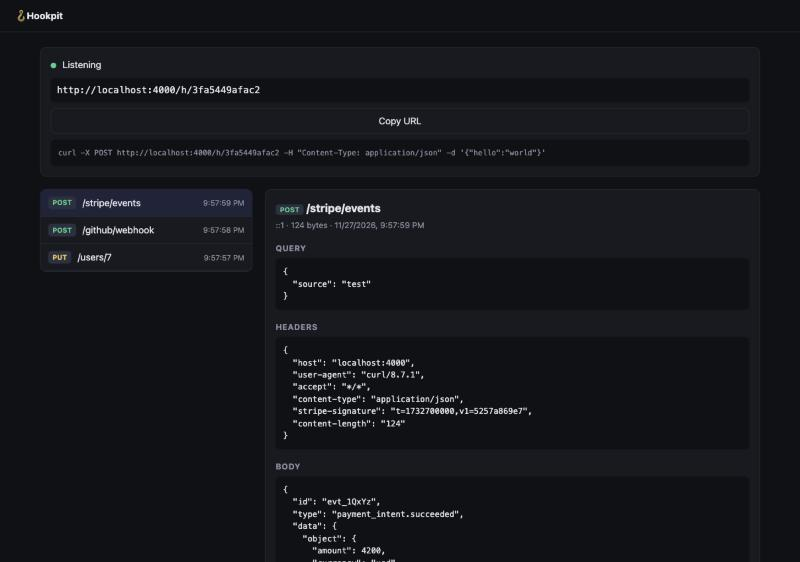
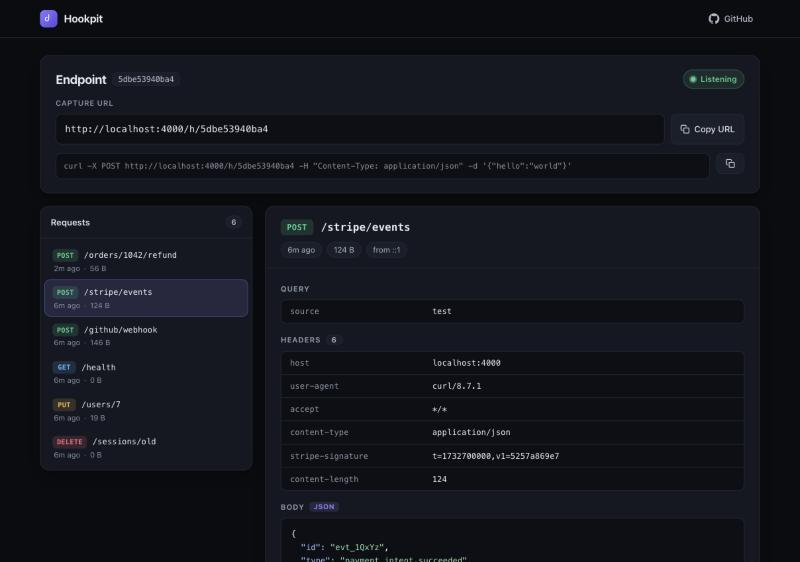
docs: refresh the README screenshots for the new design and add mocks

diff --git a/README.md b/README.md
@@ -11,13 +11,21 @@ Your payloads stay on your own server instead of a third-party site.
 
 ## Demo
 
+![Hookpit home page: "Catch, inspect, replay and mock webhooks"](docs/home.jpg)
+
 **1. Catch.** Point any service at your capture URL. Every request shows up live with its exact method, path, query, headers and raw body.
 
-![Hookpit dashboard showing three captured requests and the details of a Stripe-style webhook](docs/dashboard.jpg)
+![Hookpit endpoint page with a list of captured requests and the headers and JSON body of a Stripe-style webhook](docs/dashboard.jpg)
 
 **2. Replay.** Fixed your handler? Resend the same request to your app, optionally editing the method or body first, and see exactly how it responded.
 
 ![Hookpit replay panel showing a 202 Accepted response from the target](docs/replay.jpg)
+
+**3. Mock.** Make the capture URL answer like a real API: set the status, headers, a body with placeholders such as `{{now}}`, and a delay.
+
+![Hookpit mock responses panel editing a GET /health rule](docs/mocks.jpg)
+
+The interface follows your system's light or dark theme.
 
 Try it in 30 seconds, once Hookpit is running (see [Quick start](#quick-start)):
 
